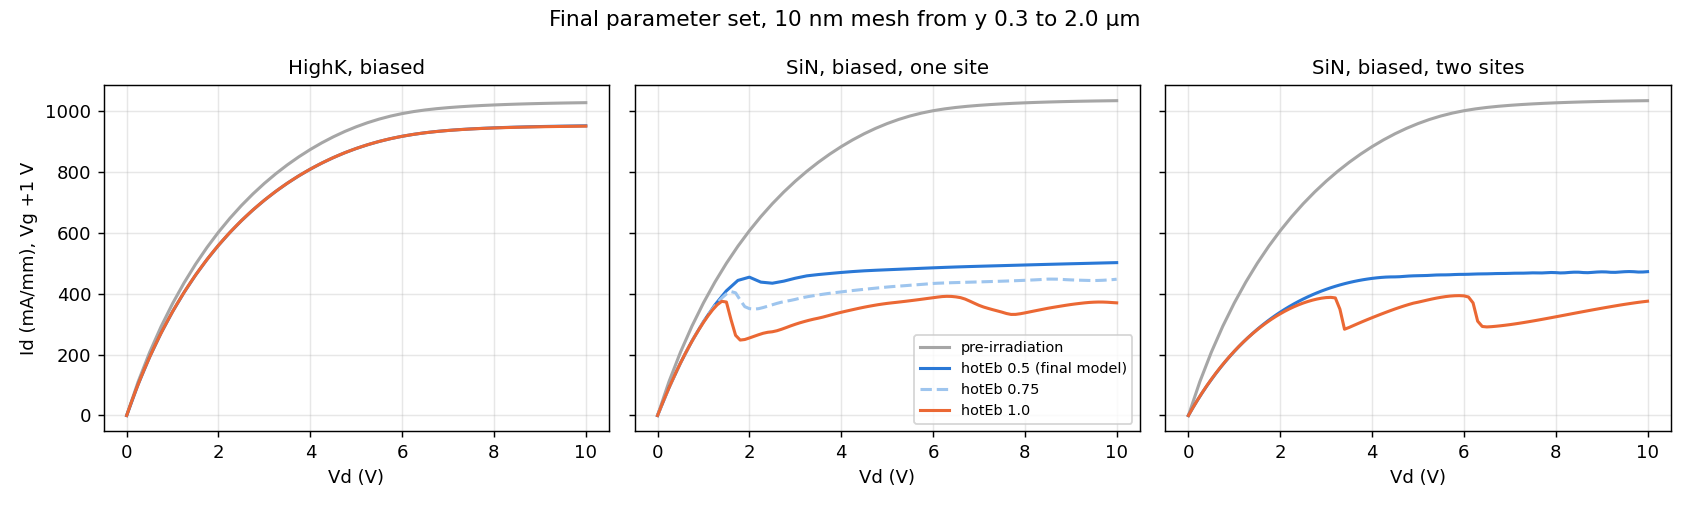
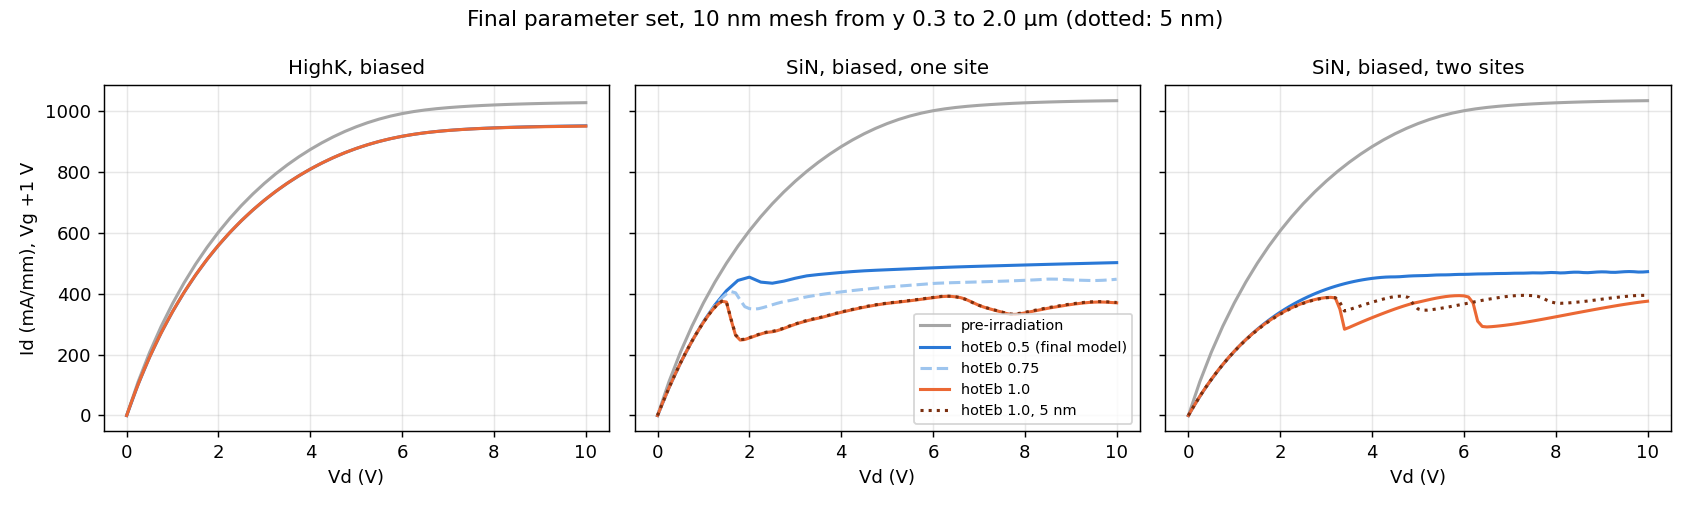
radEB2: SiN one-site collapse at hotEb 1.0 converged at 5 nm; two-site steps not

diff --git a/analysis/radEBFig.py b/analysis/radEBFig.py
@@ -21,7 +21,10 @@ for a, (t, pre, e5, e1, e75) in zip(ax, P):
                           (e75, "#9ec5ee", "--", "hotEb 0.75"), (e1, "#eb6834", "-", "hotEb 1.0")):
         if p:
             d = load(p + "_IdVd.csv"); a.plot(d[:, 0], d[:, 1], color=c, ls=ls, lw=1.7, label=lab)
+    m5 = {"SiN, biased, one site": "sin_b_eb1_m05", "SiN, biased, two sites": "sin_final_eb1_m05"}.get(t)
+    if m5:
+        d = load(f"results/20261109_radEB2/task_*/{m5}_IdVd.csv"); a.plot(d[:, 0], d[:, 1], color="#7a2e0e", ls=":", lw=1.7, label="hotEb 1.0, 5 nm")
     a.set_title(t, fontsize=11); a.set_xlabel("Vd (V)"); a.grid(alpha=0.3)
 ax[0].set_ylabel("Id (mA/mm), Vg +1 V"); ax[1].legend(fontsize=8)
-fig.suptitle("Final parameter set, 10 nm mesh from y 0.3 to 2.0 µm", fontsize=12)
+fig.suptitle("Final parameter set, 10 nm mesh from y 0.3 to 2.0 µm (dotted: 5 nm)", fontsize=12)
 fig.tight_layout(); fig.savefig(sys.argv[1], dpi=130); print("wrote", sys.argv[1])

diff --git a/kb/results/rad-model.md b/kb/results/rad-model.md
@@ -240,5 +240,6 @@ Related: [[damage-region-map]], [[ron-increase]].
 
 - Vth and gm are unchanged by the barrier (SiN two sites gm 55.8 against 68.0 pre, −18%, as before).
 - At hotEb 1.0 the model again collapses SiN and not HighK, on a fine mesh, with two drops when there are two sites. The drops recover partly between and after, unlike the measured slow creep.
-- Not counted yet: a 5 nm check of both SiN cases is running (radEB2). The final model stays at 0.5 unless Ian decides otherwise.
+- **5 nm check (radEB2, job 50470082, 2 tasks, no crashes):** the one-site collapse is converged: 374 to 256 mA/mm at 1.6–1.7 V, then the same recovery, within 2 mA/mm of 10 nm everywhere. The two-site drops are not: at 5 nm they shrink to 28 mA/mm at 3.4 V and 22 at 4.9 V, with smaller wiggles, ending at 395. The second site (dam3, 4.5e18 at y 1.0–1.6) is still mesh-sensitive.
+- So hotEb 1.0 gives one real, SiN-only collapse from the field-placed damage. A converged second step isn't there yet. The final model stays at 0.5 unless Ian decides otherwise.
 

diff --git a/progress.md b/progress.md
@@ -1929,3 +1929,8 @@ Submitted **job 44441813** → `results/20261002_posMapLate/`. Polling every 5 m
 
 - **radEB1 50411481** (6 tasks, no crashes): at hotEb 1.0 on 10 nm, HighK biased and non-biased devices are unchanged; SiN one site drops near 1.5-2 V (373 to 255 mA/mm) and recovers; SiN two sites drops near 3.4 and 6.6 V and recovers to 376 at 10 V. hotEb 0.75 gives a small drop. Vth, gm unchanged.
 - **radEB2 50470082** (2 tasks): both SiN cases at 5 nm. **Decision for Ian afterwards:** whether the final model moves to hotEb 1.0.
+
+## 2026-11-09 evening: radEB2 analysed
+
+- **radEB2 50470082** (2 tasks, no crashes, 6.1-6.5 h, 2.8 GB): at 5 nm the SiN one-site collapse at hotEb 1.0 matches 10 nm (374 to 256 mA/mm at 1.6-1.7 V): converged. The two-site drops shrink to 28 and 22 mA/mm with wiggles: not converged.
+- **Decision for Ian:** move the final model to hotEb 1.0 for a real SiN-only collapse (one step), or keep 0.5.
